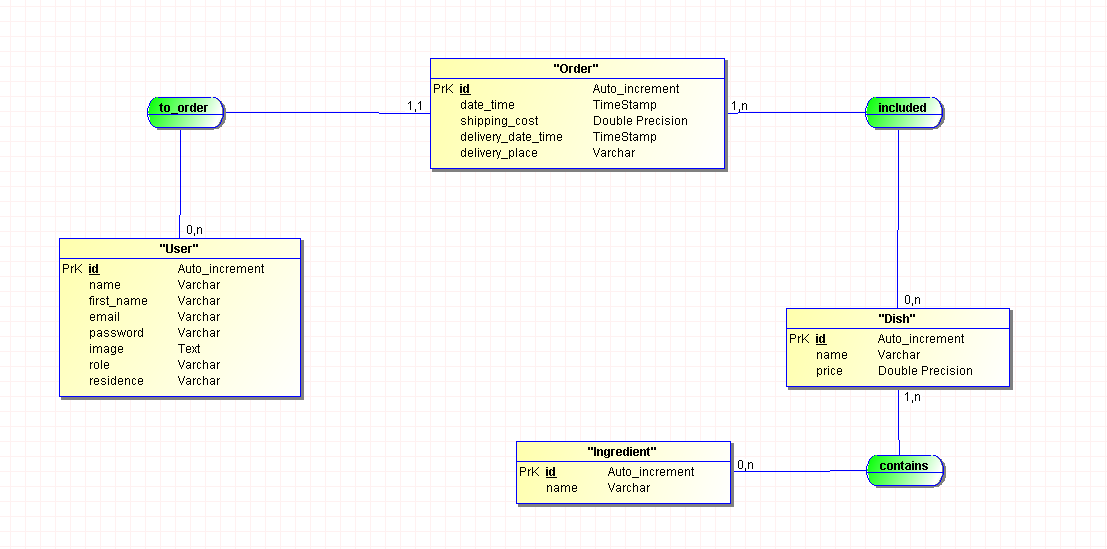
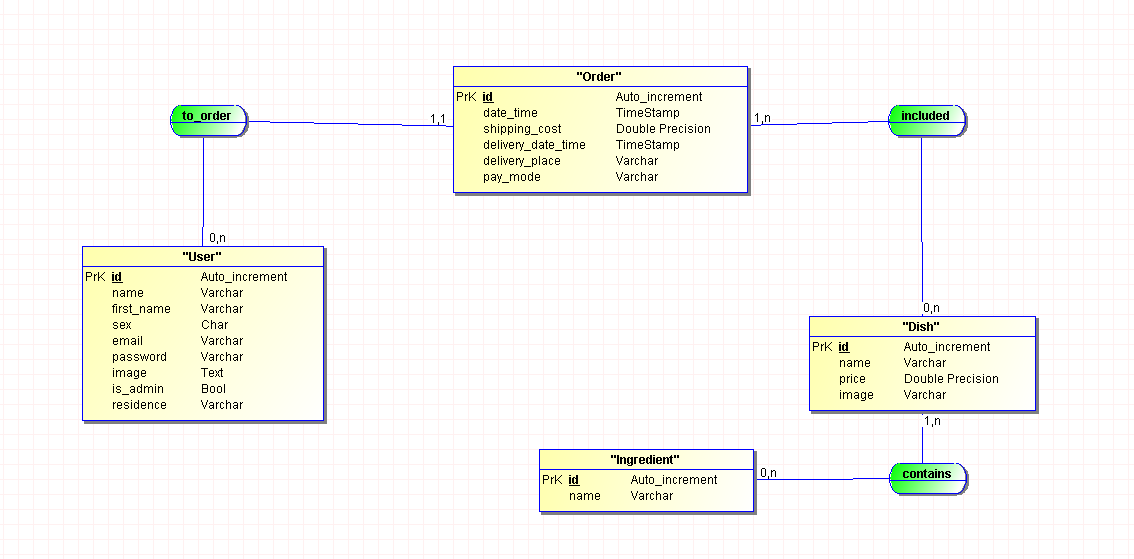
fix: database information environnement
* fix: remove duplicate entities

* feat:add all Entity

* feat: add DatabaseConfiguration and test it

* feat: add DatabaseConfiguration and test it

* chore: try to run project without env variabble

* fix: "corrige some bug in sql schema"

* chore: "User controller Test"

* feat: generic class for DAO

* feat: User model

* feat: User DAO

* feat: User Controller

* fix:add image column in dish table

* fix: add pay_mode column in order table

* fix: debug environement variable of database

diff --git a/src/main/java/com/food_orders/repository/UserDAO.java b/src/main/java/com/food_orders/repository/UserDAO.java
@@ -10,7 +10,7 @@ import java.util.UUID;
 
 @Component
 public class UserDAO implements GenericDAO<User> {
-    private Connection connection;
+    private final Connection connection;
 
     public UserDAO(Connection connection) {
         this.connection = connection;
@@ -22,7 +22,7 @@ public class UserDAO implements GenericDAO<User> {
                 "(name, first_name, email, password, image, role, residence)" +
                 " VALUES (?,?,?,?,?,?,?)";
 
-        try (PreparedStatement preparedStatement = connection.prepareStatement(sql, Statement.RETURN_GENERATED_KEYS)) {
+        try (PreparedStatement preparedStatement = connection.prepareStatement(sql)) {
             preparedStatement.setString(1, toAdd.getName());
             preparedStatement.setString(2, toAdd.getFirst_name());
             preparedStatement.setString(3, toAdd.getEmail());
@@ -55,7 +55,7 @@ public class UserDAO implements GenericDAO<User> {
 
 
     @Override
-    public List<User> findAll() throws SQLException {
+    public List<User> findAll() {
         String sql = "SELECT * FROM \"User\"";
 
         List<User> allUsers = new ArrayList<>();
@@ -65,7 +65,7 @@ public class UserDAO implements GenericDAO<User> {
 
             while (result.next()) {
                 allUsers.add(new User(
-                        (UUID) result.getObject("id", UUID.class),
+                        result.getObject("id", UUID.class),
                         result.getString("name"),
                         result.getString("first_name"),
                         result.getString("email"),
@@ -91,7 +91,7 @@ public class UserDAO implements GenericDAO<User> {
             try (ResultSet result = preparedStatement.executeQuery()) {
                 if (result.next()) {
                     return new User(
-                            (UUID) result.getObject("id", UUID.class),
+                            result.getObject("id", UUID.class),
                             result.getString("name"),
                             result.getString("first_name"),
                             result.getString("email"),

diff --git a/src/main/java/com/food_orders/configuration/DatabaseConfiguration.java b/src/main/java/com/food_orders/configuration/DatabaseConfiguration.java
@@ -1,6 +1,5 @@
 package com.food_orders.configuration;
 
-import com.food_orders.repository.UserDAO;
 import org.springframework.beans.factory.annotation.Value;
 import org.springframework.context.annotation.Bean;
 import org.springframework.context.annotation.Configuration;
@@ -8,29 +7,21 @@ import org.springframework.context.annotation.Configuration;
 import java.sql.Connection;
 import java.sql.DriverManager;
 import java.sql.SQLException;
+
 @Configuration
 public class DatabaseConfiguration {
-//
-//    @Value("${spring.datasource.url}")
-//    private String dbUrl;
-//
-//    @Value("${spring.datasource.username}")
-//    private String dbUsername;
-//
-//    @Value("${spring.datasource.password}")
-//
 
-    private String dbUrl = "jdbc:postgresql://localhost/paradish";
-    private String dbUsername = "postgres";
-    private String dbPassword = "12345678";
+    @Value("${spring.datasource.url}")
+    private String url;
+
+    @Value("${spring.datasource.username}")
+    private String username;
+
+    @Value("${spring.datasource.password}")
+    private String password;
 
     @Bean
     public Connection getConnection() throws SQLException {
-        return DriverManager.getConnection(dbUrl, dbUsername, dbPassword);
-    }
-
-    @Bean
-    public UserDAO userDAO(Connection connection) {
-        return new UserDAO(connection);
+        return DriverManager.getConnection(url, username, password);
     }
 }

diff --git a/src/main/java/com/food_orders/repository/GenericDAO.java b/src/main/java/com/food_orders/repository/GenericDAO.java
@@ -1,16 +1,21 @@
 package com.food_orders.repository;
 
+
 import com.food_orders.entity.User;
 
 import java.sql.SQLException;
 import java.util.List;
 import java.util.UUID;
 
-public interface  GenericDAO<T> {
+public interface GenericDAO<T> {
     User insert(T toAdd) throws SQLException;
+
     List<T> findAll() throws SQLException;
+
     T getById(UUID clientId) throws SQLException;
+
     void update(T updatedClient) throws SQLException;
+
     void delete(UUID clientId) throws SQLException;
 
 }

diff --git a/src/main/java/com/food_orders/entity/User.java b/src/main/java/com/food_orders/entity/User.java
@@ -19,7 +19,7 @@ public class User {
     private String role;
     private String residence;
 
-    public User(String name, String first_name, String email, String password, String image, String role, String residence) {
+    public User(String name, String first_name, String email, String password, String image, String role) {
         this.name = name;
         this.first_name = first_name;
         this.email = email;

diff --git a/src/main/java/com/food_orders/FoodOrdersApplication.java b/src/main/java/com/food_orders/FoodOrdersApplication.java
@@ -6,8 +6,8 @@ import org.springframework.boot.autoconfigure.SpringBootApplication;
 @SpringBootApplication
 public class FoodOrdersApplication {
 
-	public static void main(String[] args) {
-		SpringApplication.run(FoodOrdersApplication.class, args);
-	}
+    public static void main(String[] args) {
+        SpringApplication.run(FoodOrdersApplication.class, args);
+    }
 
 }

diff --git a/src/main/java/com/food_orders/controller/PingPong.java b/src/main/java/com/food_orders/controller/PingPong.java
@@ -6,7 +6,12 @@ import org.springframework.web.bind.annotation.RestController;
 @RestController
 public class PingPong {
     @GetMapping("/ping")
-    public String PingPong(String ping) {
+    public String PingPong() {
         return "Pong";
+    }
+
+    @GetMapping("/")
+    public String HelloWord() {
+        return "WELCOME TO PARADISH DATA BASE";
     }
 }

diff --git a/src/main/java/com/food_orders/entity/Order.java b/src/main/java/com/food_orders/entity/Order.java
@@ -16,5 +16,5 @@ public class Order {
     private Double shipping_cost;
     private Timestamp delivery_date_time;
     private String delivery_place;
-    private UUID id_User;
+    private String pay_mode;
 }

diff --git a/src/main/java/com/food_orders/entity/Dish.java b/src/main/java/com/food_orders/entity/Dish.java
@@ -13,4 +13,5 @@ public class Dish {
     private UUID id;
     private String name;
     private Double price;
+    private String image;
 }
